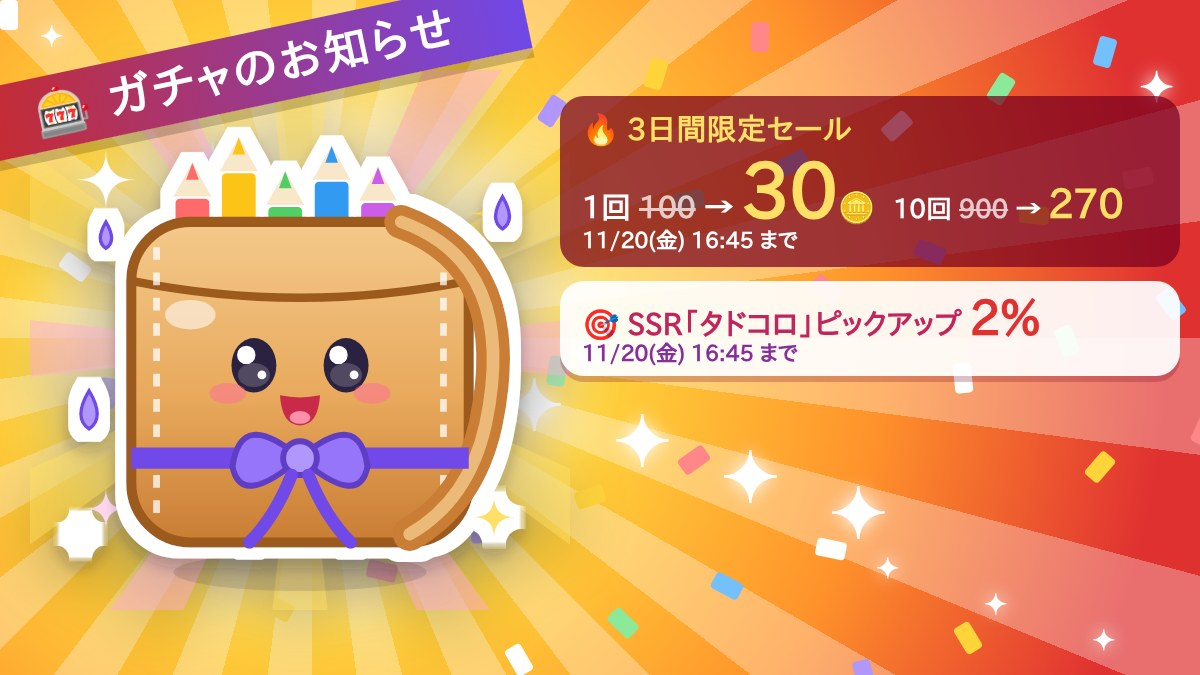
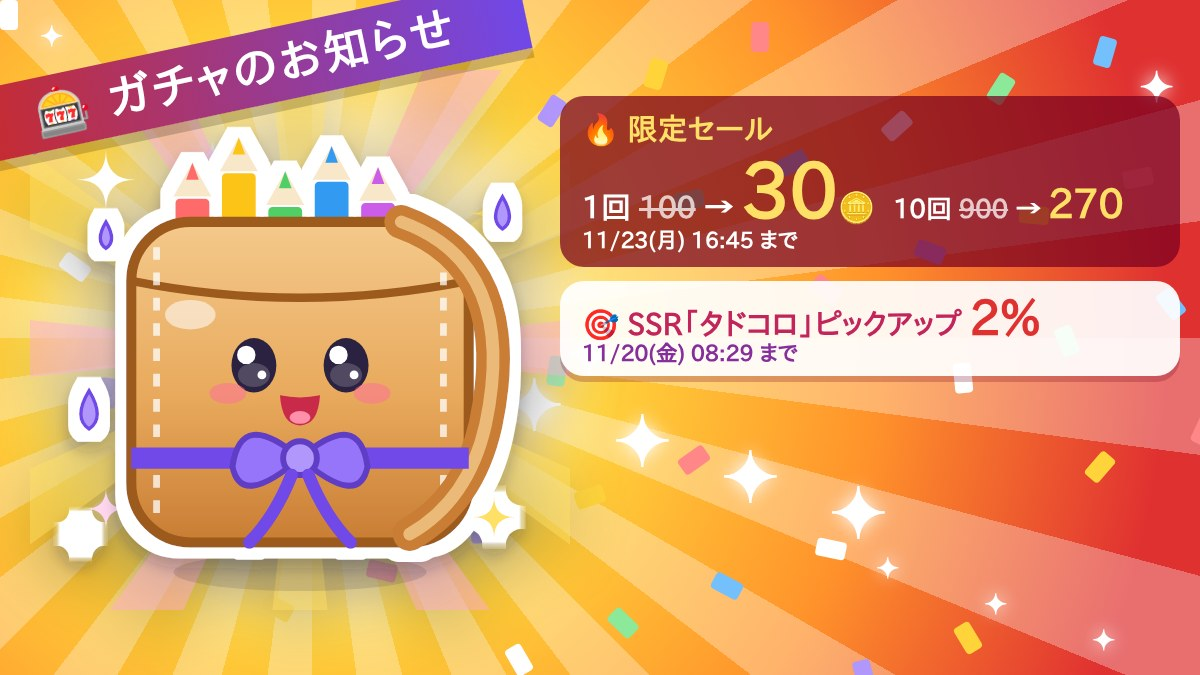
タドコロのピックアップは 11/20 8:29 まで、ガチャのセールを 11/23 16:45 まで延長 (公式アカウントでお知らせ)
Claude-Session: https://claude.ai/code/session_0131LAB3VBSEDYy6z21kYLHB

Changed region(s): [[0.5242, 0.1556, 0.7092, 0.2178], [0.555, 0.4978, 0.6475, 0.56], [0.5242, 0.3422, 0.5858, 0.3733]]

diff --git a/cards.js b/cards.js
@@ -158,7 +158,7 @@ const PULL_COST = 100, TEN_COST = 900, PITY = 80;
 // ---------- 期間限定のガチャのセール (この期間だけ値段が変わる。終わると自動で元にもどる) ----------
 // テストのときは環境変数 CB_SALE_START / CB_SALE_END (ミリ秒の時刻) で上書きできる
 const SALES = [
-  { name: '3日間限定セール', start: Date.parse('2026-11-17T16:45:00+09:00'), end: Date.parse('2026-11-20T16:45:00+09:00'), pull: 30, ten: 270 },
+  { name: '限定セール', start: Date.parse('2026-11-17T16:45:00+09:00'), end: Date.parse('2026-11-23T16:45:00+09:00'), pull: 30, ten: 270 }, // 11/20 16:45 まで → 11/23 16:45 まで延長
 ];
 if (Number(process.env.CB_SALE_START) && Number(process.env.CB_SALE_END)) Object.assign(SALES[0], { start: Number(process.env.CB_SALE_START), end: Number(process.env.CB_SALE_END) });
 function pricesNow(now = Date.now()) {
@@ -175,7 +175,7 @@ const RATE_UPS = [
 // テストのときは環境変数 CB_PICKUP_START (ミリ秒の時刻) で上書きできる
 const PICKUPS = [
   { name: '新キャラ ピックアップ', id: 'scissors', rate: 3, start: Date.parse('2026-11-18T10:25:00+09:00'), end: Date.parse('2026-11-19T08:35:00+09:00') }, // 疾風剣士ハサミ丸 1 体で 3% (タドコロの登場 11/19 8:35 まで)
-  { name: 'タドコロ ピックアップ', id: 'tadokoro', rate: 2, start: Date.parse('2026-11-19T08:35:00+09:00'), end: Date.parse('2026-11-20T16:45:00+09:00') }, // タドコロ 1 体で 2% (セールと同じ 11/20 16:45 まで)
+  { name: 'タドコロ ピックアップ', id: 'tadokoro', rate: 2, start: Date.parse('2026-11-19T08:35:00+09:00'), end: Date.parse('2026-11-20T08:29:00+09:00') }, // タドコロ 1 体で 2% (11/20 8:29 まで。8:30 から筆の剣士)
   { name: '筆の剣士 ピックアップ', id: 'brush', rate: 2, start: Date.parse('2026-11-20T08:30:00+09:00'), end: Date.parse('2026-11-21T08:30:00+09:00') }, // 筆の剣士 1 体で 2% (11/20 8:30〜11/21 8:30)
 ];
 if (Number(process.env.CB_PICKUP_START)) PICKUPS[0].start = Number(process.env.CB_PICKUP_START);

diff --git a/official.js b/official.js
@@ -35,7 +35,7 @@ const H = 3600_000, D = 24 * H;
 // ガチャの告知 (その時のセール・ピックアップ・確率アップをまとめて知らせる)。id は変えない。at になったらドパバナーつきで投稿し、until までアプリにバナーを出す
 const GACHA_NOTICES = [
   { id: '2026-11-18', at: Date.parse('2026-11-18T08:40:00+09:00'), until: Date.parse('2026-11-19T08:35:00+09:00') },
-  { id: '2026-11-19', at: Date.parse('2026-11-19T08:35:00+09:00'), until: Date.parse('2026-11-20T08:30:00+09:00') }, // タドコロ ピックアップ + セール
+  { id: '2026-11-19', at: Date.parse('2026-11-19T08:35:00+09:00'), until: Date.parse('2026-11-20T08:29:00+09:00') }, // タドコロ ピックアップ + セール
   { id: '2026-11-20', at: Date.parse('2026-11-20T08:30:00+09:00'), until: Date.parse('2026-11-21T08:30:00+09:00') }, // 筆の剣士 ピックアップ (+ タドコロ ピックアップ・セールは 16:45 まで)
 ];
 // その告知の時点でのガチャの情報 (セール・これからのピックアップ・確率アップ)
@@ -79,6 +79,10 @@ const UPDATES = [
 🧪 8:30〜 雷神降臨でアイテム解禁 (回復薬・全回復薬・アイスティー)
 🎒 8:35〜 SSR「タドコロ」登場！ ピックアップ 2% (〜11/20 16:45) ※予告の 10:30 から早まりました
 🔥 3日間限定セール・🌠 星降る夜のクエストも開催中 ${TAG}` },
+  { key: 'sale-extend-2026-11-19', at: Date.parse('2026-11-19T23:15:00+09:00'), until: Date.parse('2026-11-23T16:45:00+09:00'), banner: 'gacha-2026-11-20',
+    text: `🔥【セール延長決定！】ガチャの割引 (1 回 30 コイン・10 回 270 コイン) を 11/23(月) 16:45 まで延長します！
+🎒 タドコロのピックアップは 11/20(金) 8:29 まで
+🖌 11/20(金) 8:30 から SSR「筆の剣士」ピックアップ 2% (〜11/21 8:30) ${TAG}` },
 ];
 
 const fmt = (t) => new Date(t).toLocaleString('ja-JP', { timeZone: 'Asia/Tokyo', month: 'numeric', day: 'numeric', weekday: 'short', hour: '2-digit', minute: '2-digit' });
